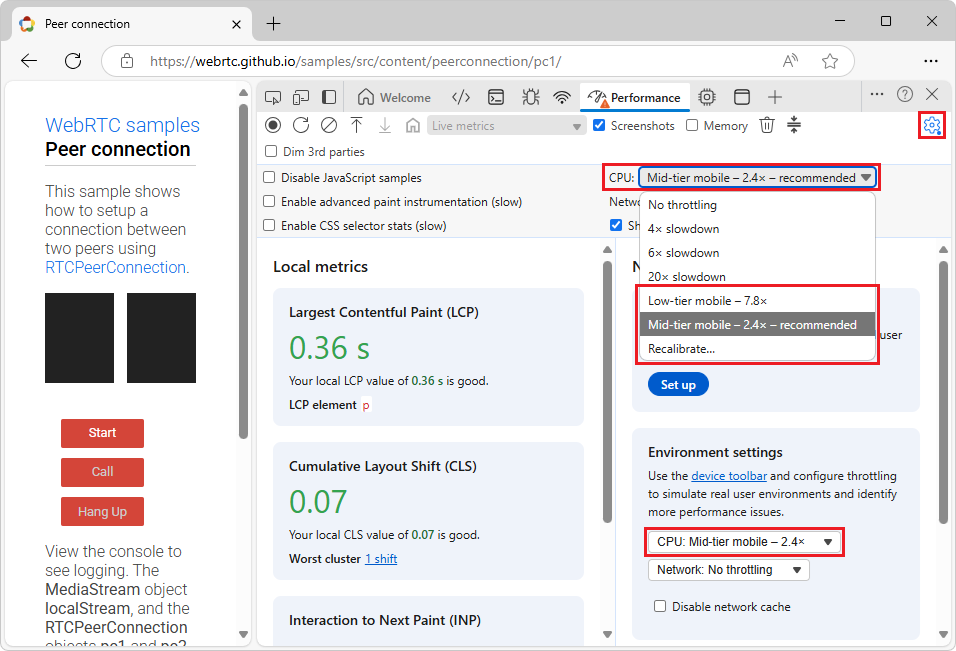
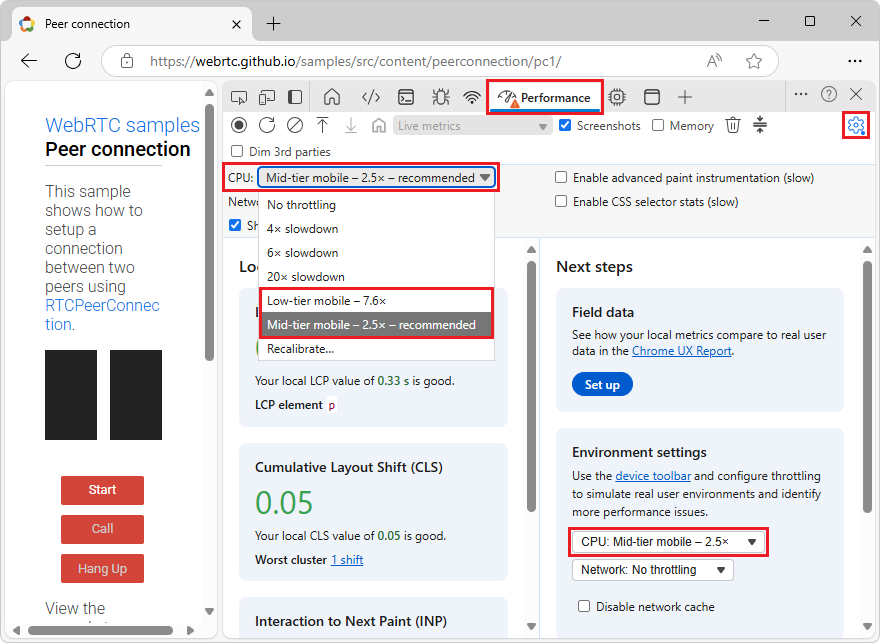
update UI

diff --git a/microsoft-edge/devtools/settings/throttling.md b/microsoft-edge/devtools/settings/throttling.md
@@ -45,27 +45,44 @@ To calibrate CPU throttling presets:
 
    DevTools opens.
 
-1. In DevTools, click the **Customize and control DevTools** (![Customize and control DevTools icon](./throttling-images/customize-and-control-devtools-icon.png)) button, and then select **Settings** (![Settings icon](./throttling-images/settings-icon.png)).
+1. Select the **Performance** tool.
 
-   The DevTools **Settings** page opens.
+1. Select the **Capture settings** (![Capture settings icon](./throttling-images/capture-settings-icon.png)) button, and then in the **CPU throttling** dropdown menu, select **Calibrate**.
 
-1. On the left, select the **Throttling** settings page.
+   ![The CPU throttling dropdown menu before calibrating](./throttling-images/cpu-throttling-menu-before-calibrate.png)
+
+   Before calibration, the **Low-tier mobile** and **Mid-tier mobile** menuitems are dimmed, and don't have numbers next to them.
+
+   Or, in the **Environment settings** section, select the **CPU throttling** dropdown menu, and then select **Calibrate**:
+
+   ![The CPU throttling dropdown menu before calibrating, in Environment settings](./throttling-images/envir-cpu-throttling-menu-before-calibrate.png)
+
+   Or, click the **Customize and control DevTools** (![Customize and control DevTools icon](./throttling-images/customize-and-control-devtools-icon.png)) button, and then select **Settings** (![Settings icon](./throttling-images/settings-icon.png)), and then on the left, select the **Throttling** settings page.
+
+   The DevTools **Settings** > **Throttling** page opens.
 
 1. In the **CPU throttling presets** section, click the **Calibrate** button, and then click the **Continue** button.
 
    After about 5 seconds, DevTools navigates away from the current webpage and then reloads it.
 
-   The **Throttling** tab shows the CPU throttling rates that you can apply to your device to get an idea of how your page performs on low- and mid-tier mobile devices:
+   The **CPU throttling presets** section shows the throttling rates that you can apply to your device, to get an idea of how your page performs on low- and mid-tier mobile devices:
 
    ![Calibrated rates next for low- and mid-tier mobile devices](./throttling-images/calibrated.png)
 
-1. In DevTools **Settings**, click the **Close** (X) button.
+1. In DevTools **Settings**, click the **Close** (![Close icon](./throttling-images/close-settings-icon.png)) button.
 
-1. In DevTools, open the **Performance** tool.
 
-1. In the **Environment settings** section, select the **CPU** dropdown menu.
+<!-- ====================================================================== -->
+## Use your calibrated CPU throttling presets
+<!-- bottom of https://developer.chrome.com/docs/devtools/settings/throttling#cpu-throttling -->
 
-   Or, select the **Capture settings** (![Capture settings icon](./throttling-images/capture-settings-icon.png)) button, and then select the **CPU** dropdown menu.
+To use your calibrated CPU throttling rates:
+
+1. In DevTools, select the **Performance** tool.
+
+1. Select the **Capture settings** (![Capture settings icon](./throttling-images/capture-settings-icon.png)) button, and then use the **CPU throttling** dropdown menu.
+
+   Or, in the **Environment settings** section, use the **CPU throttling** dropdown menu.
 
    The calibrated factors are displayed next to the **Low-tier mobile** and **Mid-tier mobile** menuitems:
 
@@ -73,8 +90,8 @@ To calibrate CPU throttling presets:
 
 
 <!-- ====================================================================== -->
-## Set up custom network throttling profile
-<!-- https://developer.chrome.com/docs/devtools/settings/throttling#network-throttling -->
+## Set up a custom network throttling profile
+<!-- Set up custom network throttling profile  https://developer.chrome.com/docs/devtools/settings/throttling#network-throttling -->
 
 To add a custom network throttling profile:
 
@@ -105,11 +122,11 @@ To add a custom network throttling profile:
    * **Packet Queue Length** as a number.
    * **Packet Reordering** flag, on or off.
 
-   With packet-related parameters, you can throttle [WebRTC](https://webrtc.org) applications without using third-party software.  You can try these parameters in the [Peer connection](https://webrtc.github.io/samples/src/content/peerconnection/pc1/) WebRTC sample:
+1. Click the **Add** button to save the new profile.  You can now select the custom profile from the **Throttling** dropdown menu in the **Network** tool.
+
+   By using packet-related parameters, you can throttle [WebRTC](https://webrtc.org) applications without using third-party software.  You can try these parameters in the [Peer connection](https://webrtc.github.io/samples/src/content/peerconnection/pc1/) WebRTC sample:
 
    ![Peer connection sample](./throttling-images/peer-connection-sample.png)<!-- cleaned strings -->
-
-1. Click **Add** to save the new profile.  You can now select the custom profile from the **Throttling** dropdown menu in the **Network** tool.
 
 To edit or remove an existing profile, click the **Edit** (pencil) or **Delete** (wastebasket) buttons that appear on hover.
 
